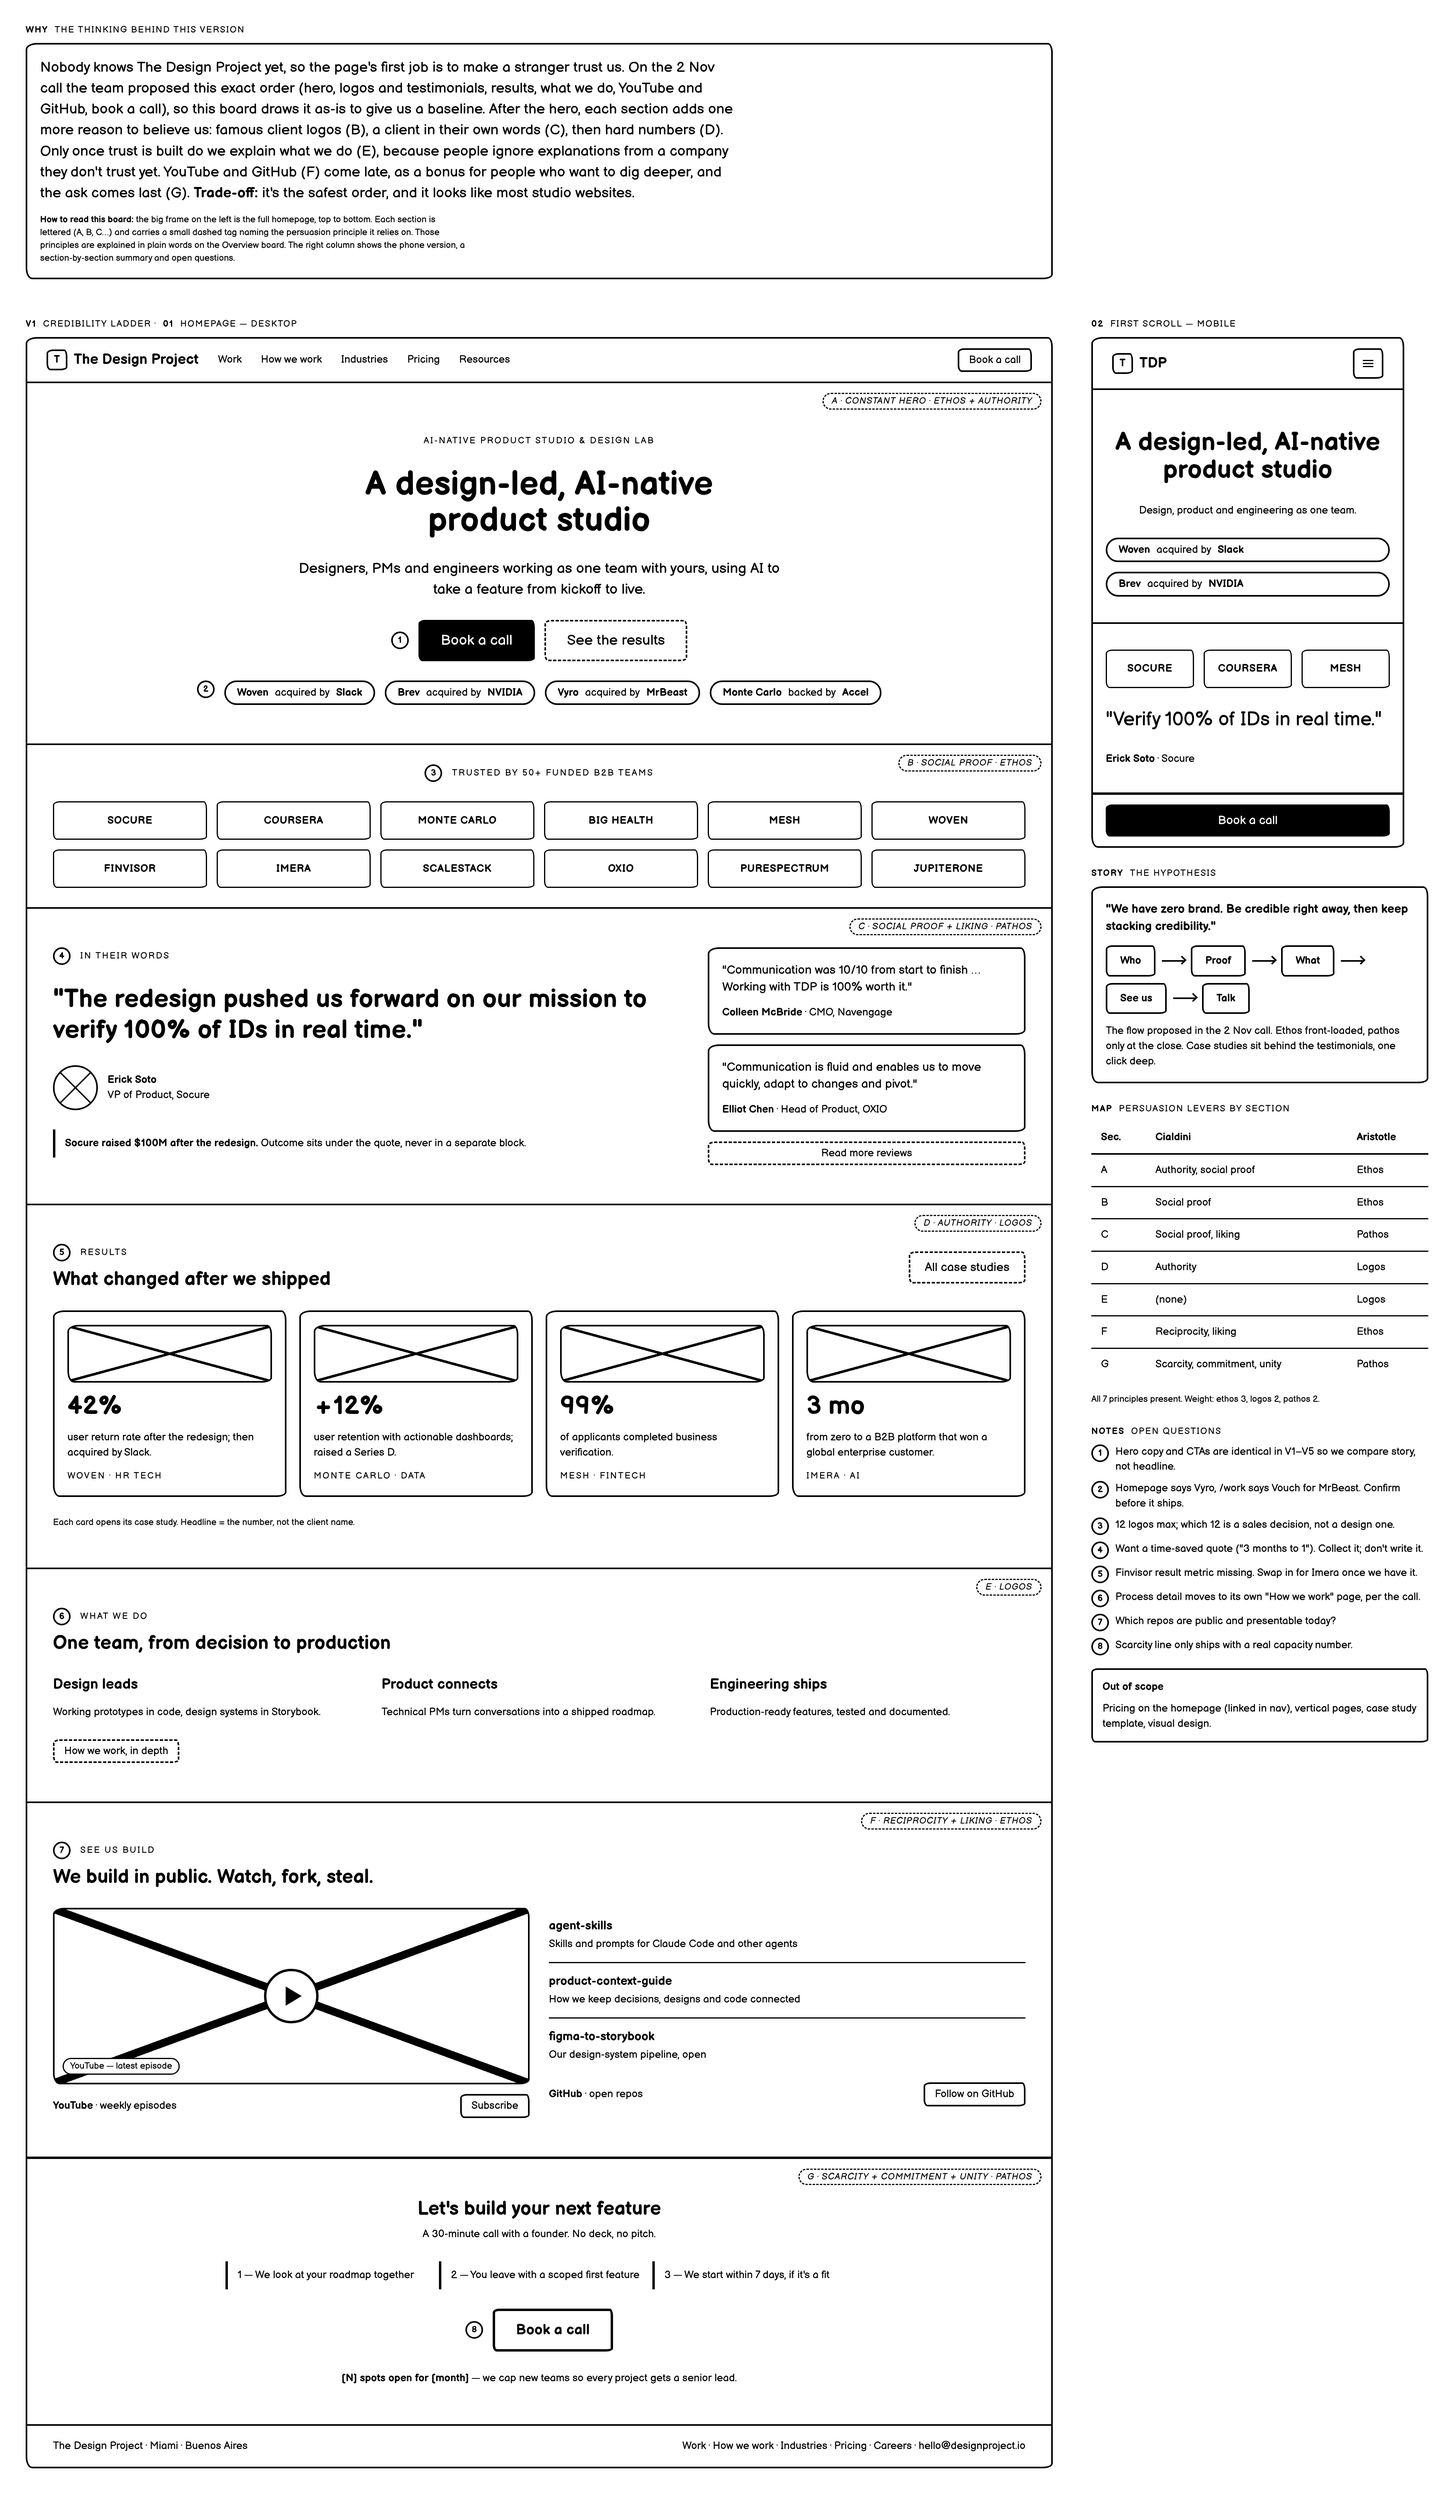
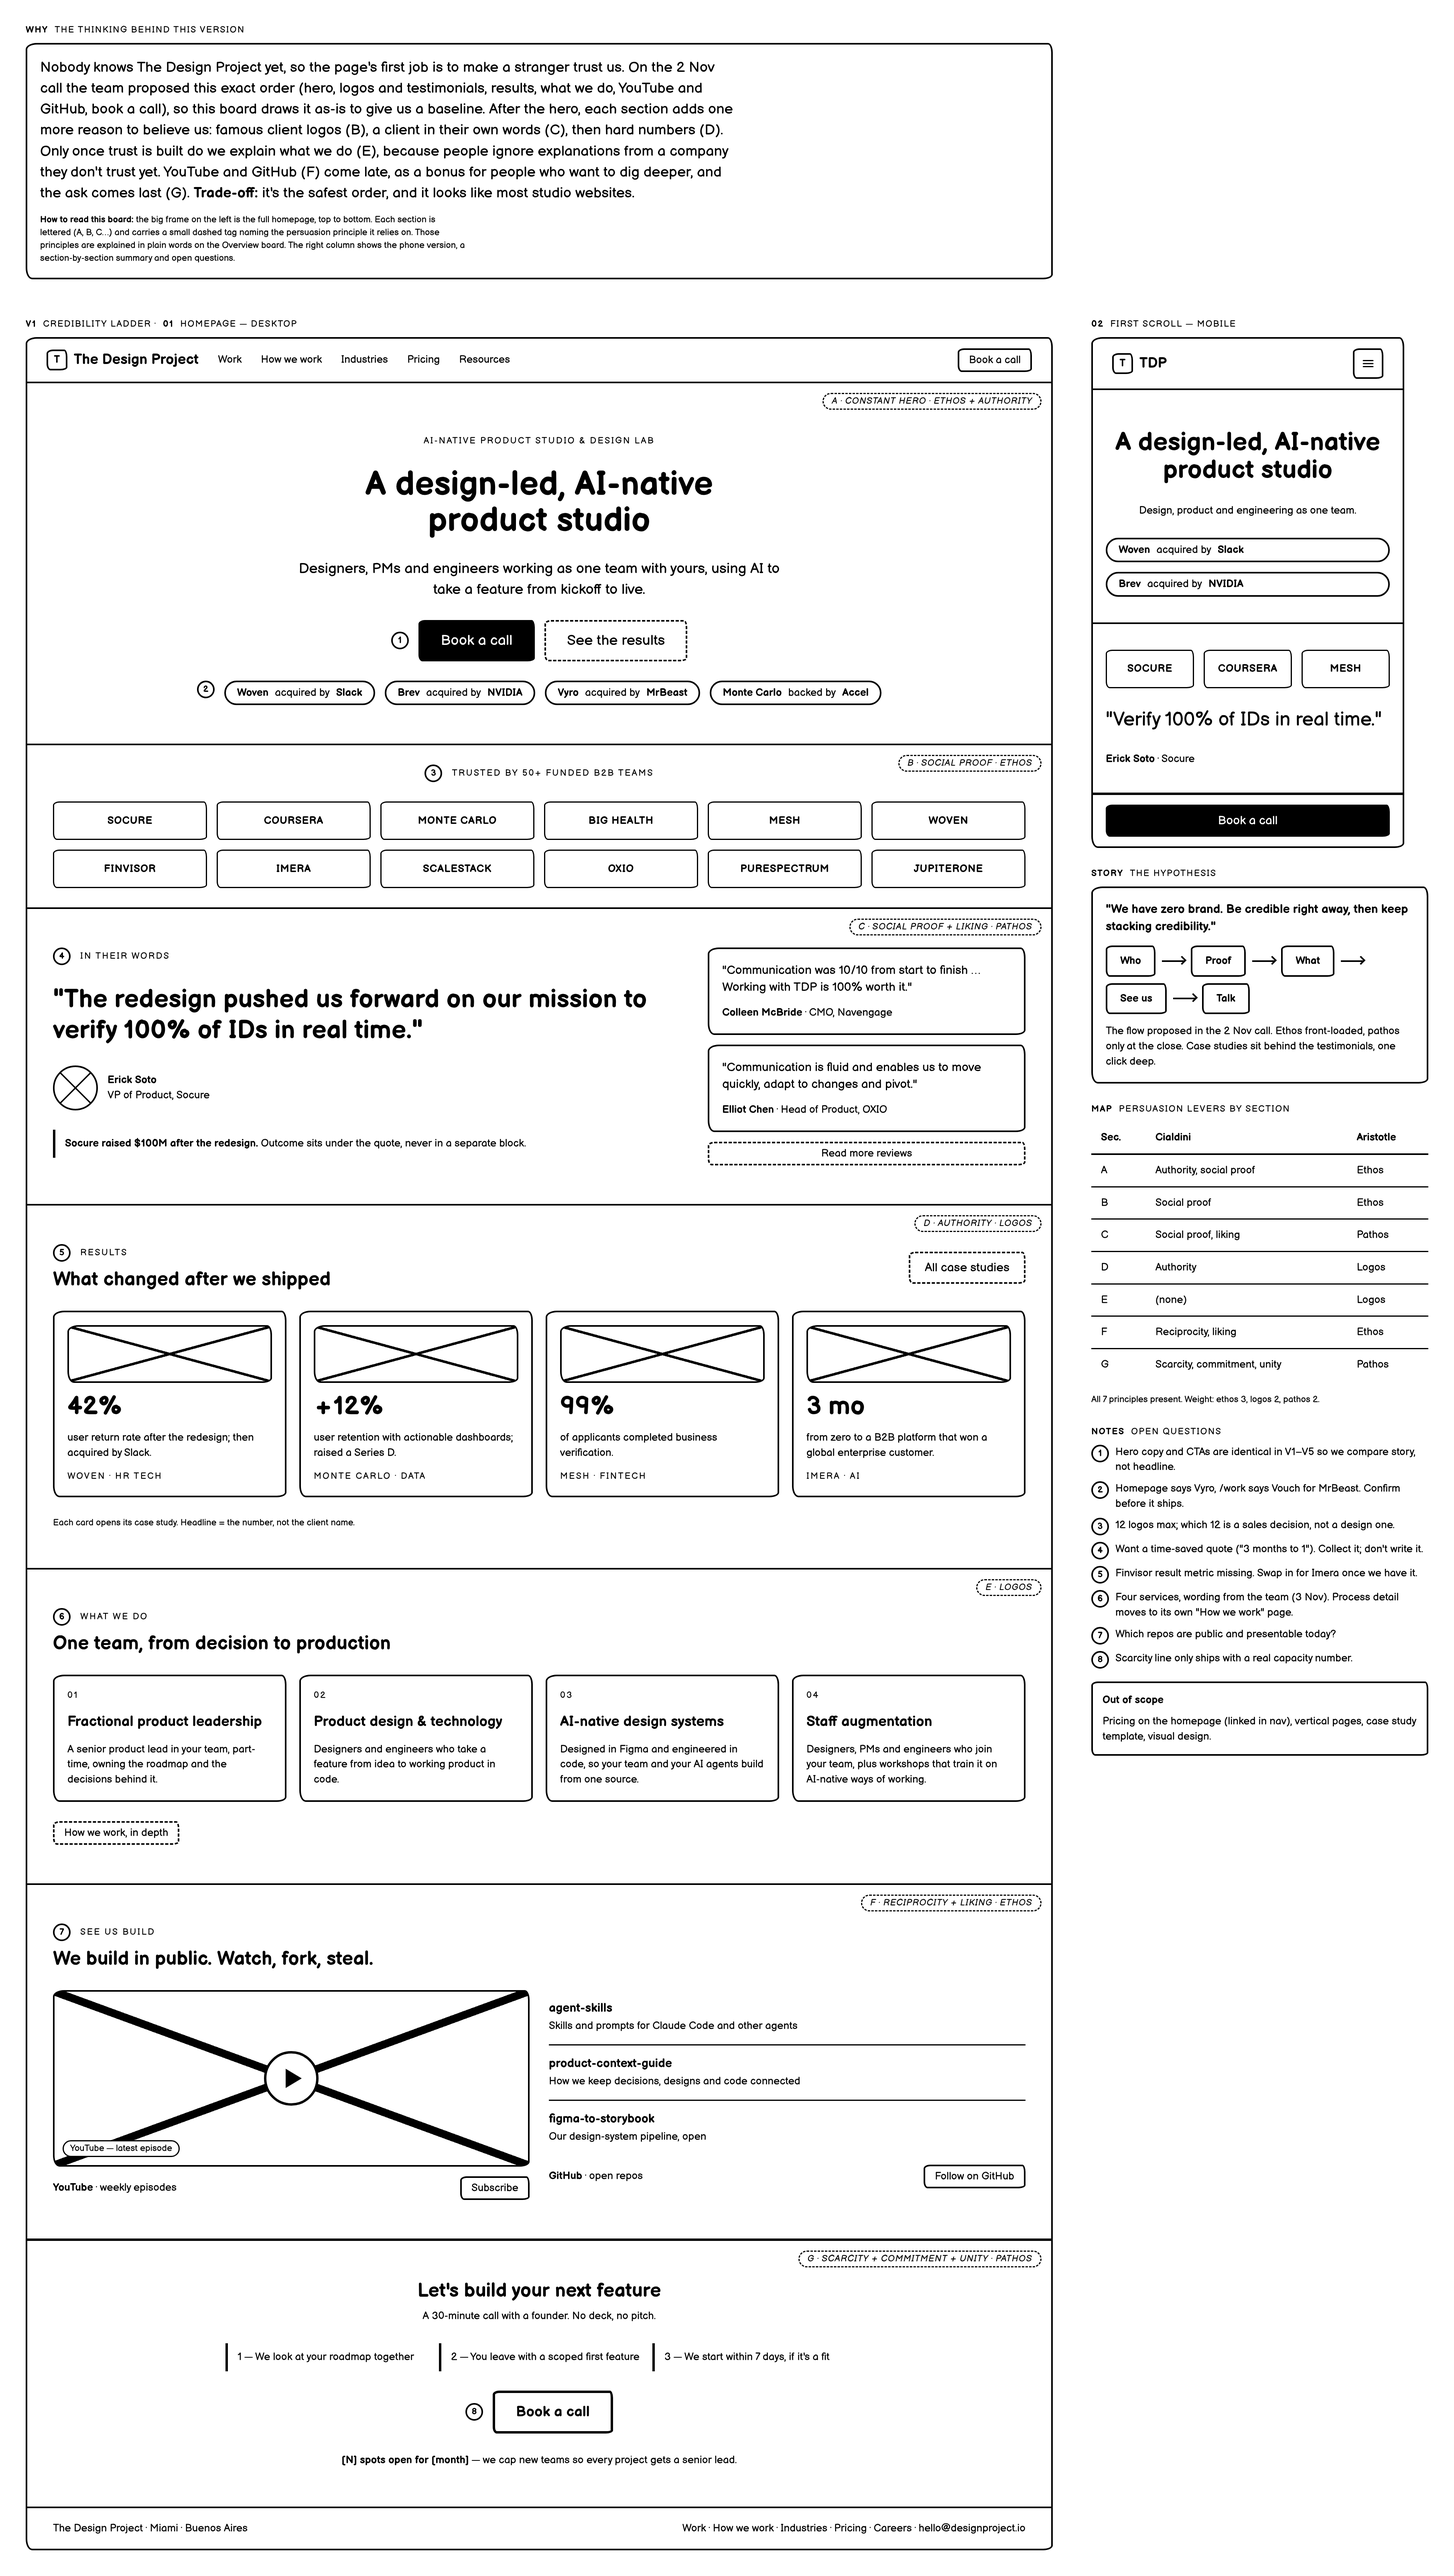
feat(wireframes): V1 'What we do' lists the four TDP services
Fractional product leadership, product design & technology, AI-native design
systems (design and engineering merged), and staff augmentation with team
training workshops.

diff --git a/wireframes/designproject-io/v1-credibility-ladder.standalone.html b/wireframes/designproject-io/v1-credibility-ladder.standalone.html
@@ -638,6 +638,24 @@ small { font-size: var(--fs-xs); }
 .board__intro .card { max-width: 1280px; }
 .board__intro p { max-width: 82ch; }
 
+/* document board: overview and summary boards that reflow to any viewport.
+   Device frames (.screen--desktop etc.) keep their fixed widths; this is for
+   boards made of cards, tables and notes. */
+.board--doc { max-width: 1764px; margin-inline: auto; }
+.board--doc > * { width: 100%; min-width: 0; }
+.grid--5 { grid-template-columns: repeat(5, minmax(0, 1fr)); }
+.table-scroll { overflow-x: auto; max-width: 100%; }
+.table-scroll > .table { min-width: 720px; }
+@media (max-width: 1200px) {
+  .board--doc .grid--5 { grid-template-columns: repeat(3, minmax(0, 1fr)); }
+  .board--doc .split { grid-template-columns: minmax(0, 1fr); }
+}
+@media (max-width: 720px) {
+  .board--doc { padding: var(--s-4); gap: var(--s-6); }
+  .board--doc .grid--5 { grid-template-columns: minmax(0, 1fr); }
+  .board--doc .p-6 { padding: var(--s-4); }
+}
+
 .screen--mobile .section       { padding: var(--s-6) var(--s-4); }
 .screen--mobile .section--hero { padding: var(--s-7) var(--s-4) var(--s-6); }
 .screen--mobile .display       { font-size: var(--fs-2xl); }
@@ -800,19 +818,27 @@ small { font-size: var(--fs-xs); }
           <div class="row"><span class="pin">6</span><p class="eyebrow">What we do</p></div>
           <h2>One team, from decision to production</h2>
         </div>
-        <div class="grid grid--3">
-          <div class="stack">
-            <h3>Design leads</h3>
-            <p class="muted">Working prototypes in code, design systems in Storybook.</p>
-          </div>
-          <div class="stack">
-            <h3>Product connects</h3>
-            <p class="muted">Technical PMs turn conversations into a shipped roadmap.</p>
-          </div>
-          <div class="stack">
-            <h3>Engineering ships</h3>
-            <p class="muted">Production-ready features, tested and documented.</p>
-          </div>
+        <div class="grid grid--4">
+          <article class="card stack">
+            <p class="eyebrow">01</p>
+            <h3>Fractional product leadership</h3>
+            <p class="muted">A senior product lead in your team, part-time, owning the roadmap and the decisions behind it.</p>
+          </article>
+          <article class="card stack">
+            <p class="eyebrow">02</p>
+            <h3>Product design &amp; technology</h3>
+            <p class="muted">Designers and engineers who take a feature from idea to working product in code.</p>
+          </article>
+          <article class="card stack">
+            <p class="eyebrow">03</p>
+            <h3>AI-native design systems</h3>
+            <p class="muted">Designed in Figma and engineered in code, so your team and your AI agents build from one source.</p>
+          </article>
+          <article class="card stack">
+            <p class="eyebrow">04</p>
+            <h3>Staff augmentation</h3>
+            <p class="muted">Designers, PMs and engineers who join your team, plus workshops that train it on AI-native ways of working.</p>
+          </article>
         </div>
         <a class="btn btn--quiet btn--sm" href="#" style="justify-self:start">How we work, in depth</a>
       </section>
@@ -939,7 +965,7 @@ small { font-size: var(--fs-xs); }
         <li><span class="pin">3</span><span>12 logos max; which 12 is a sales decision, not a design one.</span></li>
         <li><span class="pin">4</span><span>Want a time-saved quote ("3 months to 1"). Collect it; don't write it.</span></li>
         <li><span class="pin">5</span><span>Finvisor result metric missing. Swap in for Imera once we have it.</span></li>
-        <li><span class="pin">6</span><span>Process detail moves to its own "How we work" page, per the call.</span></li>
+        <li><span class="pin">6</span><span>Four services, wording from the team (3 Nov). Process detail moves to its own "How we work" page.</span></li>
         <li><span class="pin">7</span><span>Which repos are public and presentable today?</span></li>
         <li><span class="pin">8</span><span>Scarcity line only ships with a real capacity number.</span></li>
       </ol>

diff --git a/wireframes/designproject-io/v1-credibility-ladder.html b/wireframes/designproject-io/v1-credibility-ladder.html
@@ -143,19 +143,27 @@
           <div class="row"><span class="pin">6</span><p class="eyebrow">What we do</p></div>
           <h2>One team, from decision to production</h2>
         </div>
-        <div class="grid grid--3">
-          <div class="stack">
-            <h3>Design leads</h3>
-            <p class="muted">Working prototypes in code, design systems in Storybook.</p>
-          </div>
-          <div class="stack">
-            <h3>Product connects</h3>
-            <p class="muted">Technical PMs turn conversations into a shipped roadmap.</p>
-          </div>
-          <div class="stack">
-            <h3>Engineering ships</h3>
-            <p class="muted">Production-ready features, tested and documented.</p>
-          </div>
+        <div class="grid grid--4">
+          <article class="card stack">
+            <p class="eyebrow">01</p>
+            <h3>Fractional product leadership</h3>
+            <p class="muted">A senior product lead in your team, part-time, owning the roadmap and the decisions behind it.</p>
+          </article>
+          <article class="card stack">
+            <p class="eyebrow">02</p>
+            <h3>Product design &amp; technology</h3>
+            <p class="muted">Designers and engineers who take a feature from idea to working product in code.</p>
+          </article>
+          <article class="card stack">
+            <p class="eyebrow">03</p>
+            <h3>AI-native design systems</h3>
+            <p class="muted">Designed in Figma and engineered in code, so your team and your AI agents build from one source.</p>
+          </article>
+          <article class="card stack">
+            <p class="eyebrow">04</p>
+            <h3>Staff augmentation</h3>
+            <p class="muted">Designers, PMs and engineers who join your team, plus workshops that train it on AI-native ways of working.</p>
+          </article>
         </div>
         <a class="btn btn--quiet btn--sm" href="#" style="justify-self:start">How we work, in depth</a>
       </section>
@@ -282,7 +290,7 @@
         <li><span class="pin">3</span><span>12 logos max; which 12 is a sales decision, not a design one.</span></li>
         <li><span class="pin">4</span><span>Want a time-saved quote ("3 months to 1"). Collect it; don't write it.</span></li>
         <li><span class="pin">5</span><span>Finvisor result metric missing. Swap in for Imera once we have it.</span></li>
-        <li><span class="pin">6</span><span>Process detail moves to its own "How we work" page, per the call.</span></li>
+        <li><span class="pin">6</span><span>Four services, wording from the team (3 Nov). Process detail moves to its own "How we work" page.</span></li>
         <li><span class="pin">7</span><span>Which repos are public and presentable today?</span></li>
         <li><span class="pin">8</span><span>Scarcity line only ships with a real capacity number.</span></li>
       </ol>
